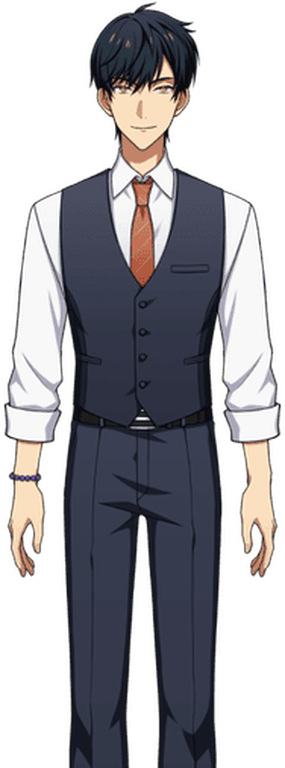
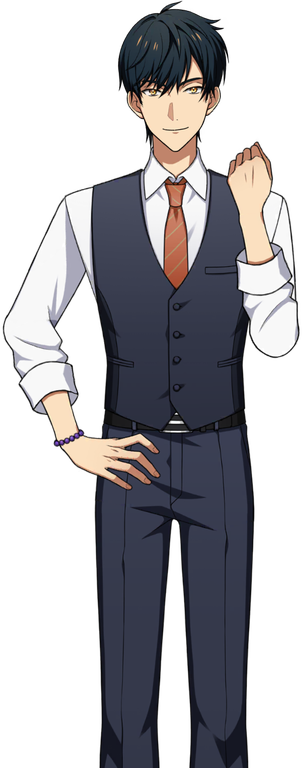
Chars: Benkei fight pose and fem academy Jo gesture pose from the Live2D rigs
Rendered at the same 0.421 scale and hair-top crop as the sprites they
replace. Benkei_Work.png was never picked by encounters, so it and its
images.work entry are gone.

diff --git a/constants/characters.js b/constants/characters.js
@@ -1102,7 +1102,7 @@ export const CHARACTERS = [
     firstName: "Benkei",
     lastName: null,
     house: null,
-    images: { uniform: "Benkei_Uniform.png", work: "Benkei_Work.png" },
+    images: { uniform: "Benkei_Uniform.png" },
     // PARTIALLY VERIFIED. reference/benkei.md is a short section for Benkei
     // (kind hearted, warm/gentle smile, campus-store shopkeep with one of
     // Cornelius' cats for a manager, former professor and advisor to the

diff --git a/docs/public-encounters.md b/docs/public-encounters.md
@@ -623,8 +623,7 @@ Uniform random over all `CHARACTERS` (all 26, Benkei included).
 ### Variant
 
 50/50 `uniform` vs `casual`. If the chosen variant has no art
-(`character.images.casual` is undefined for Elias, Mio, Shion; Benkei has
-`work`, not `casual`), fall back to `uniform` (or the first key of
+(`character.images.casual` is undefined for Elias, Mio, Shion, Benkei), fall back to `uniform` (or the first key of
 `character.images`). Net effect: those characters always appear in uniform.
 Documented, not a bug.
 
